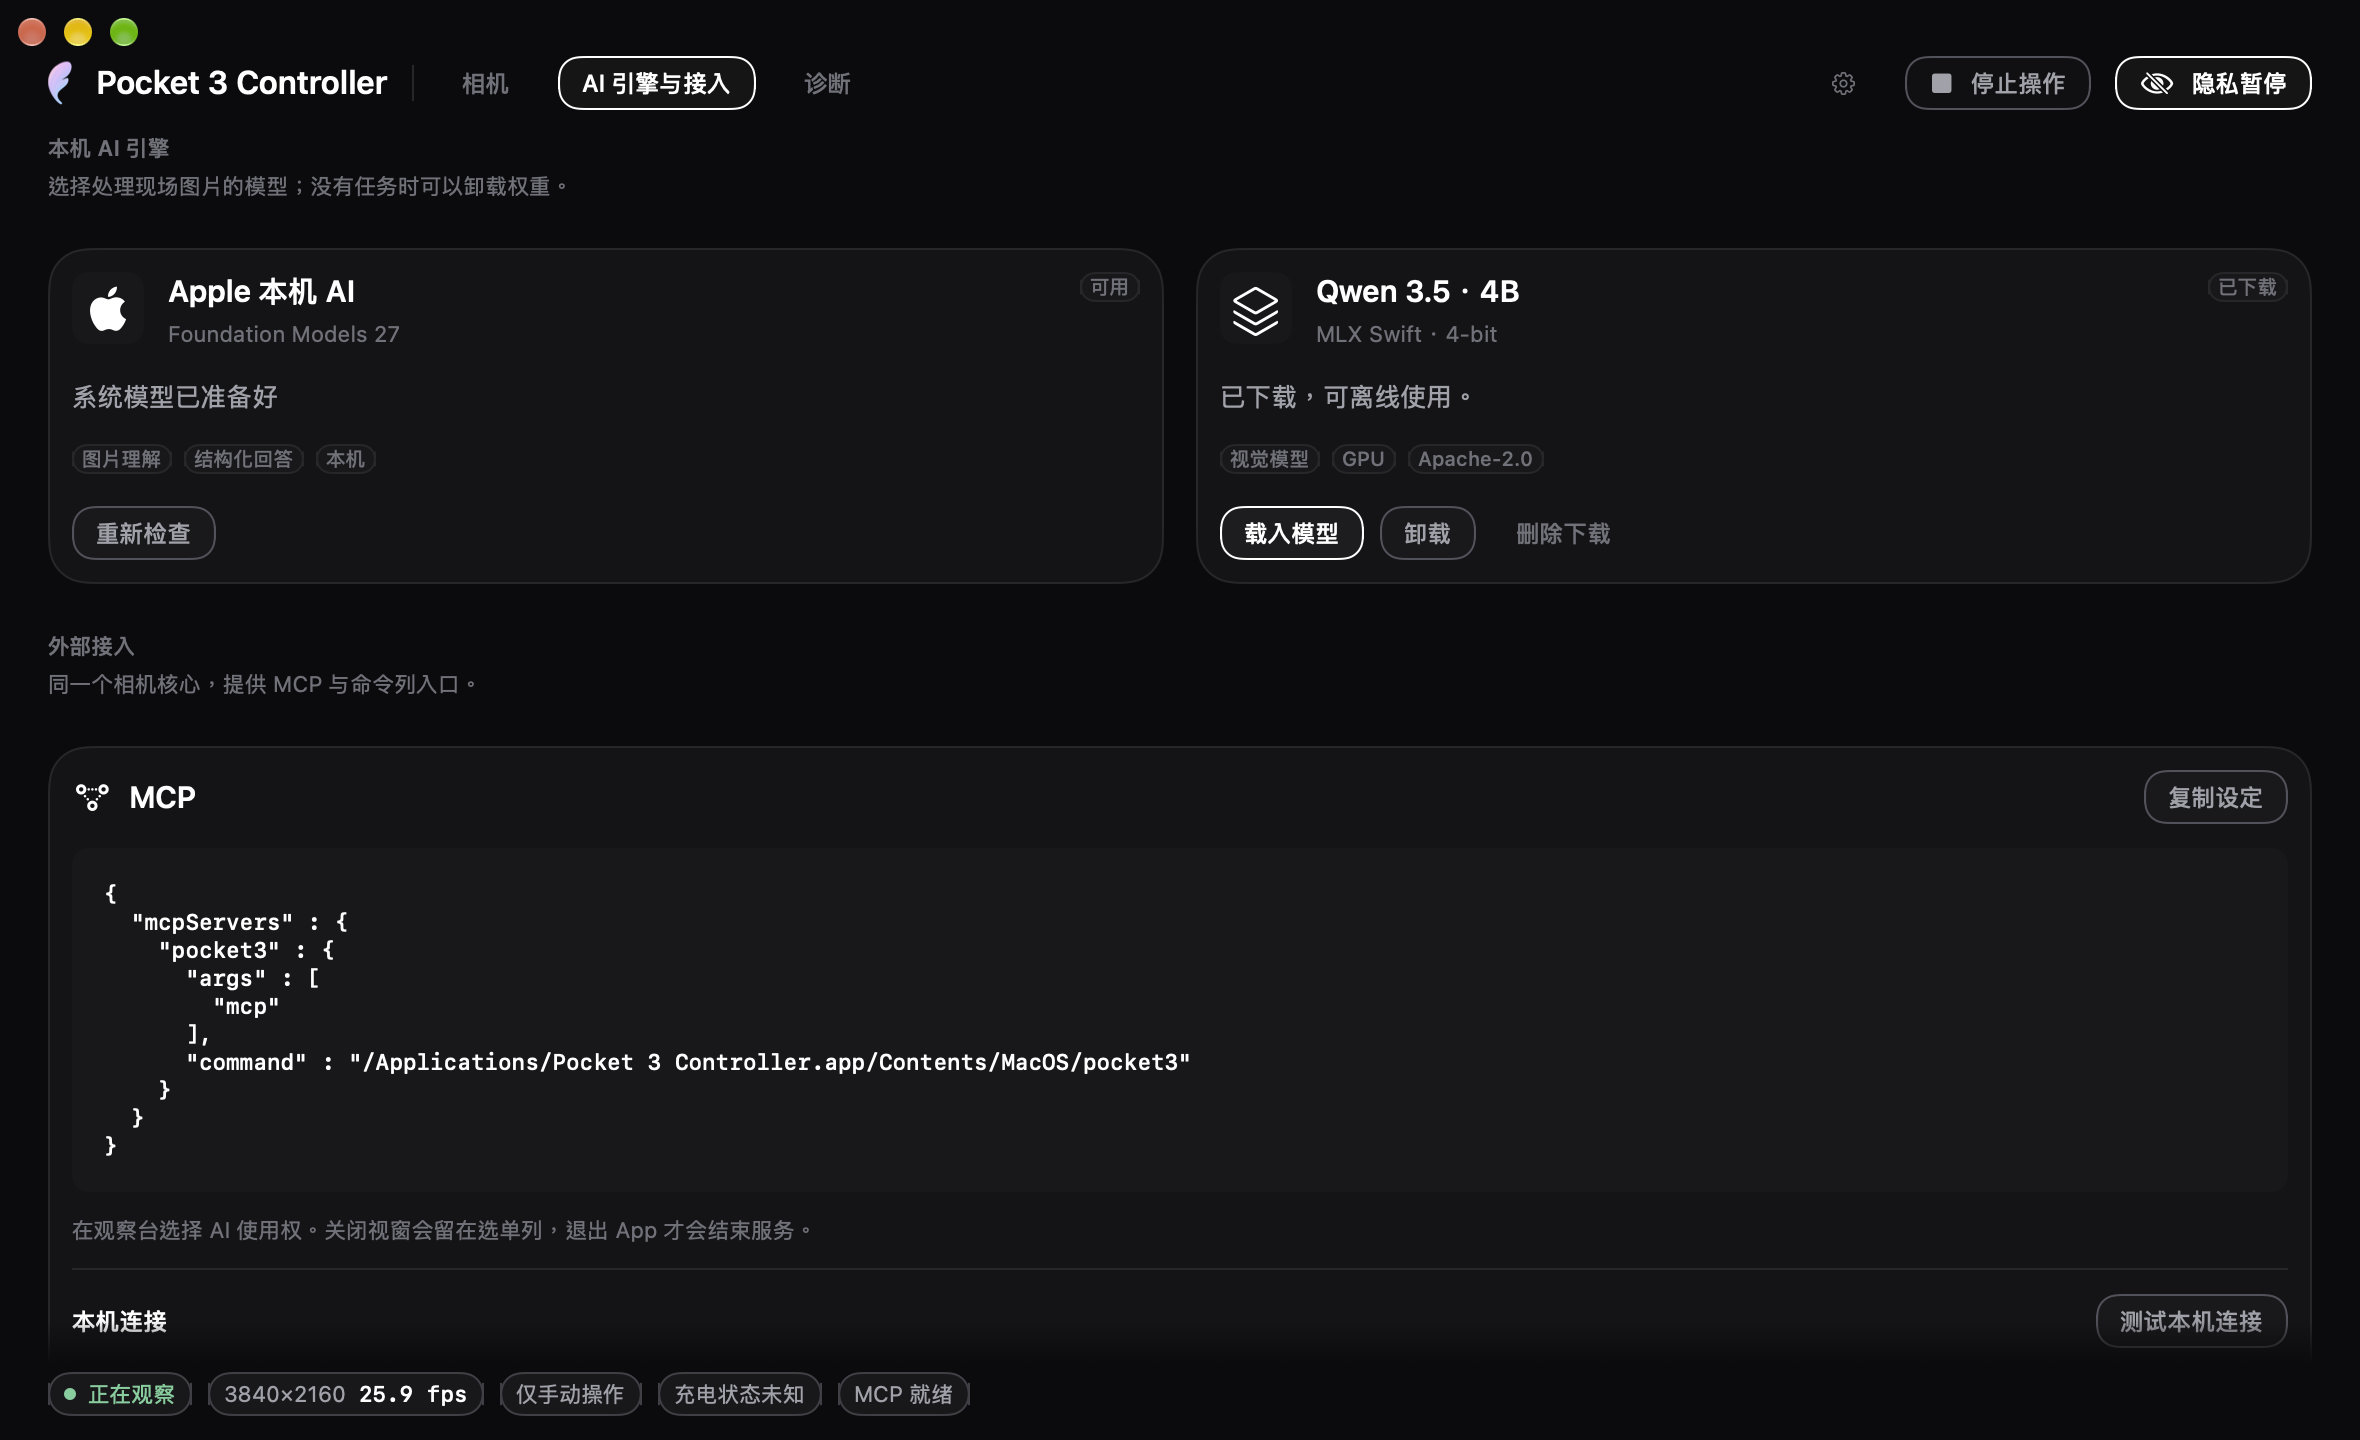
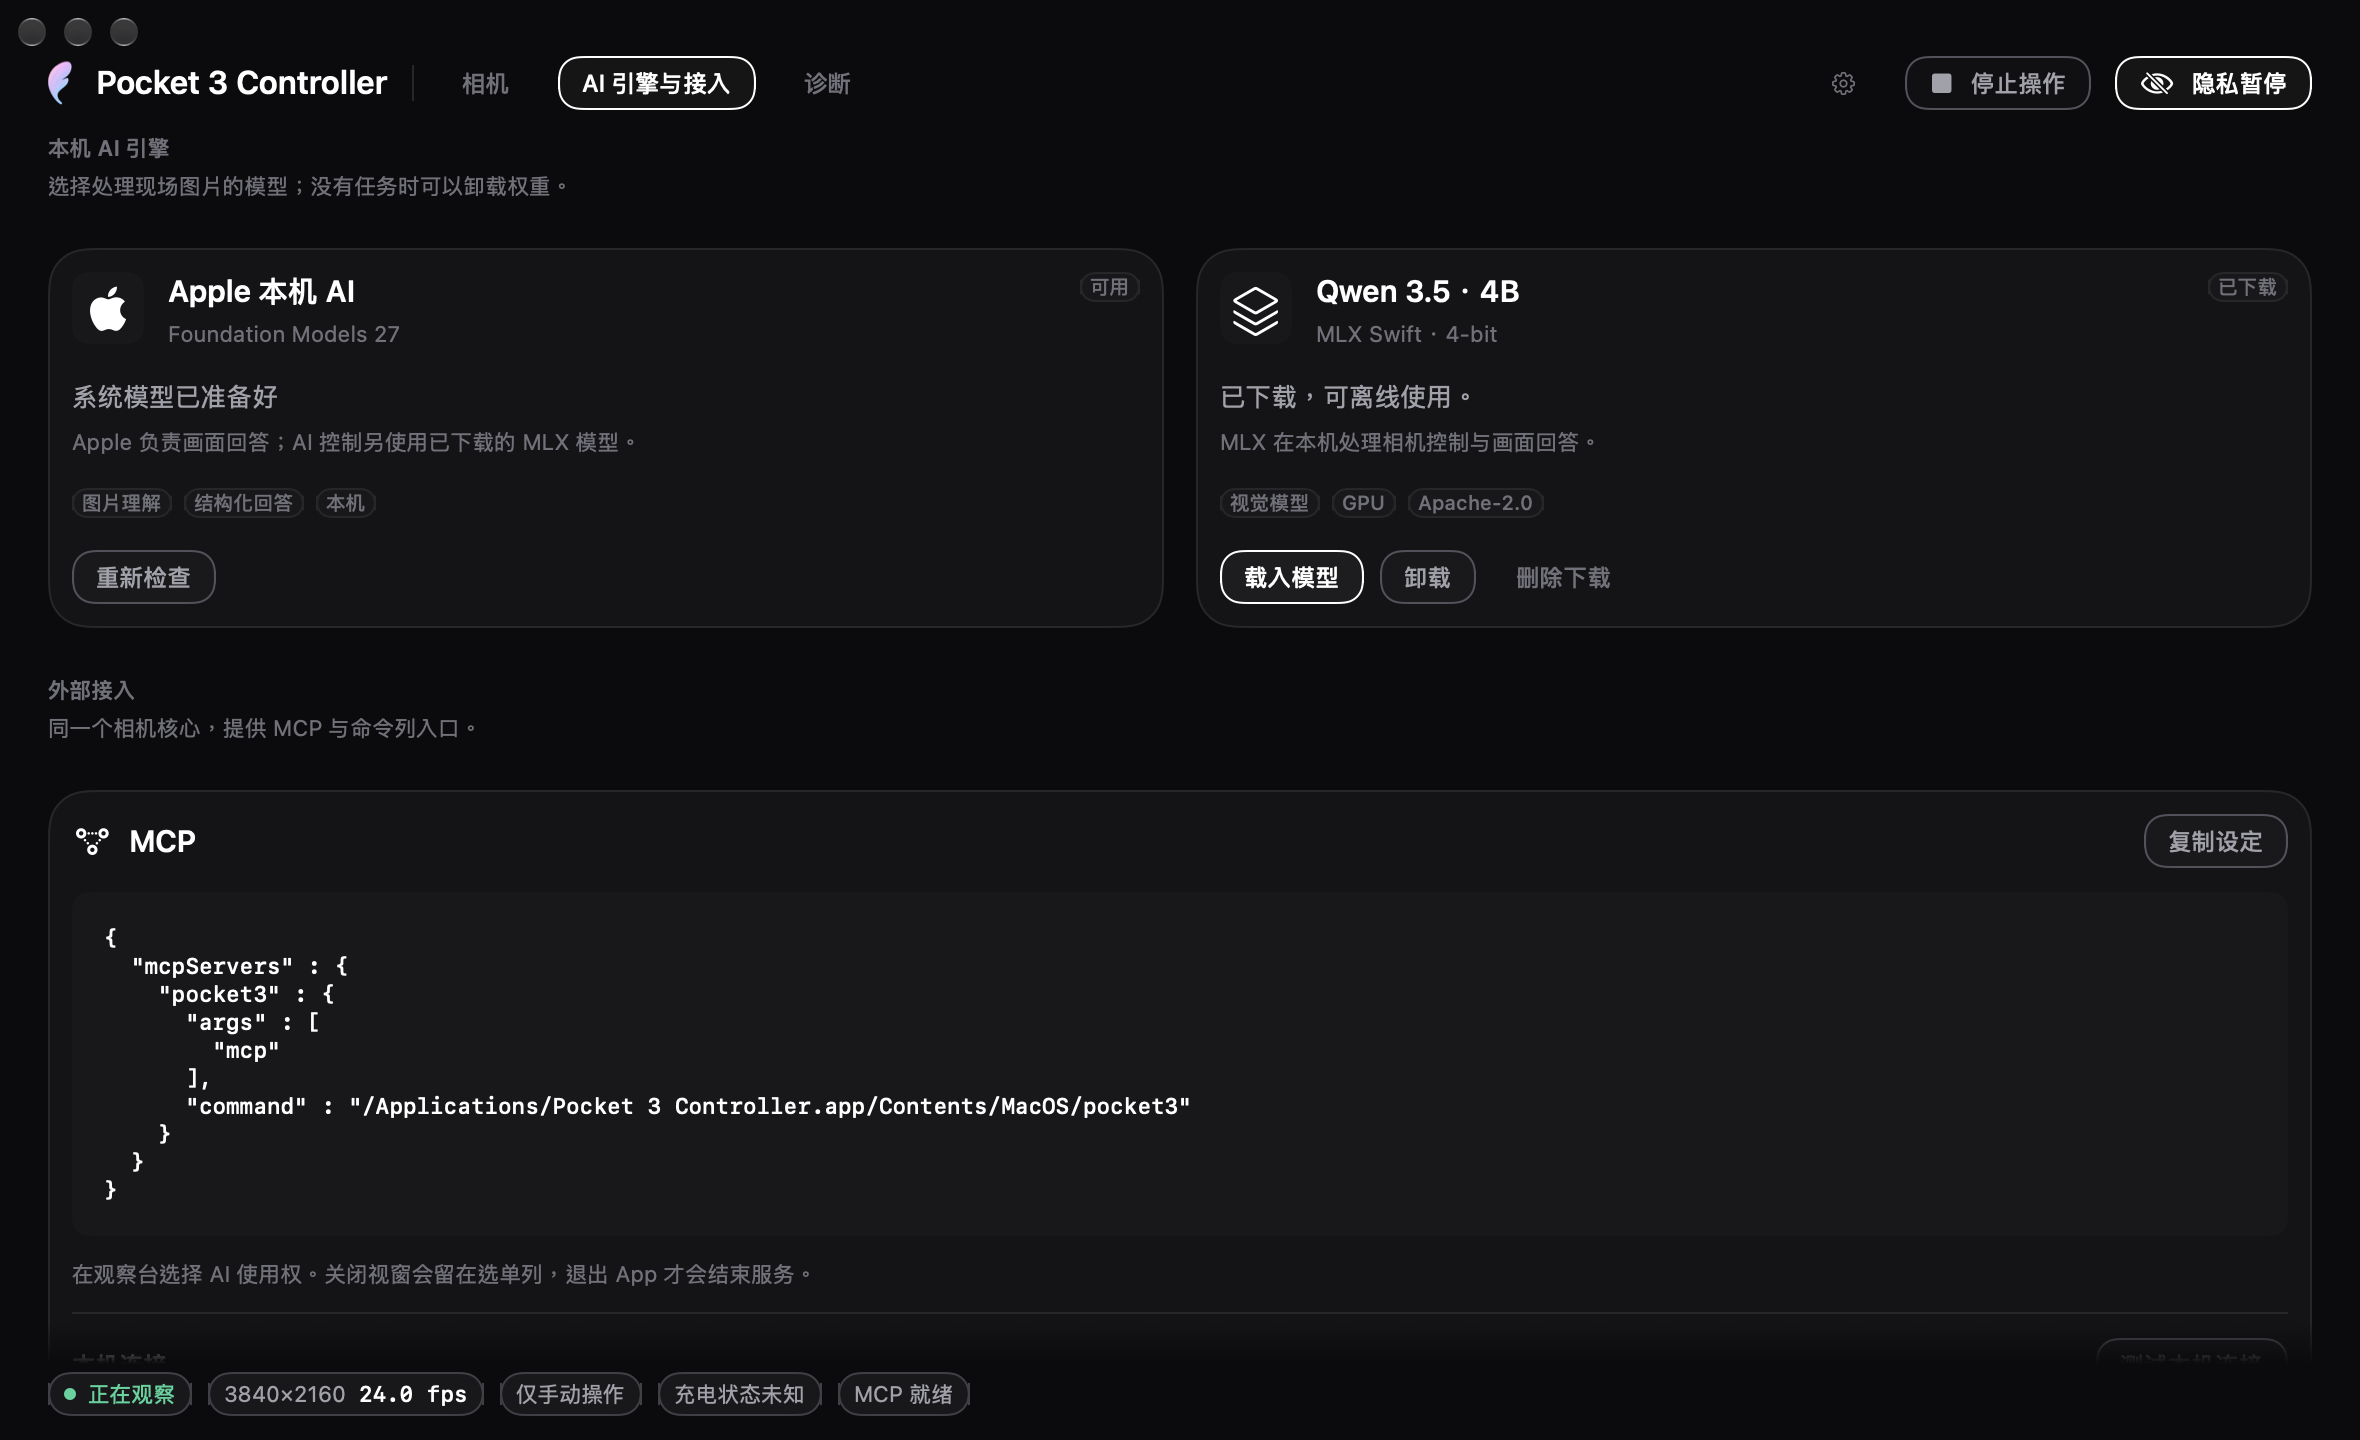
Explain model roles in three languages and refresh privacy-safe UI screenshots

diff --git a/README.md b/README.md
@@ -14,7 +14,7 @@ English · [繁體中文](README.zh-Hant.md) · [简体中文](README.zh-Hans.md
 
 <img src="docs/images/window.png" alt="Pocket 3 Controller: camera workspace, manual controls and local AI, with the sensor preview omitted" width="100%">
 
-*Current development UI · beta 2 build 11 · camera preview omitted. Published downloads are beta 1 build 9.*
+*Current development UI · beta 2 build 16 · camera preview omitted. Published downloads are beta 1 build 9.*
 
 ## Overview
 
@@ -30,7 +30,7 @@ USB control keeps the Mac on its existing network; no camera Wi-Fi join is neede
 | | |
 |---|---|
 | **Published release** | [0.0.1 beta 1 · build 9](https://github.com/YuhuanStudio/Pocket3-Controller/releases/tag/v0.0.1-beta.1) |
-| **Development branch** | `main` is preparing 0.0.1 beta 2 · build 11, with UI alignment fixes under test; it is not the published beta 1 binary |
+| **Development branch** | `main` is preparing 0.0.1 beta 2 · build 17; it is not the published beta 1 binary |
 | **Platform** | macOS 27, Apple Silicon, Pocket 3 in USB Webcam mode |
 | **Interfaces** | Main window, menu bar panel, CLI and MCP over stdio |
 | **Languages** | English, Traditional Chinese and Simplified Chinese |
@@ -108,6 +108,25 @@ questions, OCR and barcode reading. Apple features depend on system-model
 availability; the optional MLX model is downloaded only when requested. Core AI model evaluation has a measured GPU path;
 this project does not claim that every AI workload runs on the Neural Engine.
 
+**Build 16 development branch — model responsibilities.**
+When **Apple** is selected and AI movement or zoom is available, the already-downloaded
+MLX model runs the complete camera tool loop; the app refreshes the final frame,
+and Apple answers from that new image. This is not Apple independently calling
+camera tools. Apple observation-only use does not require MLX; selecting **MLX**
+still lets MLX handle its own camera tools and answer.
+
+The app does not download MLX automatically. If this control workflow needs a
+missing model, the UI explains that requirement; choose the download explicitly,
+or use Apple with observation-only access. Development responses expose
+`metadata.executionRoles`: `controllerEngine=mlx`, `answerEngine=apple`,
+`finalFrameRefresh=app` for the combined route. These roles are separate from
+actual action evidence. A bounded live-camera run passed all 11 checks in 38.039 seconds:
+MLX made four model tool calls, with one raw-200 zoom; the app then obtained a
+frame newer than the final model capture, and Apple answered it. That host refresh
+is not an extra SDK tool call. Raw 100 and manual access were restored afterward.
+This proves that case, not Apple-only camera control, every MCP scenario, or a
+capability of the published beta 1 binary. See the [hardware record](docs/HARDWARE_ACCEPTANCE.md).
+
 AI access starts off. Manual controls take priority over AI; movement and zoom
 require the corresponding access and verification conditions. A model's
 text is not proof that a camera action completed; callers receive tool results
@@ -123,7 +142,7 @@ the window leaves the menu bar service running; quitting ends it.
 </tr>
 </table>
 
-These screenshots show the current beta 2 development interface (build 11), with the sensor preview omitted. They contain no Pocket 3 photographs. Each README uses its own language; the published beta 1 download remains build 9.
+These screenshots show the current beta 2 development interface (build 16), with the sensor preview omitted. They contain no Pocket 3 photographs. Each README uses its own language; the published beta 1 download remains build 9.
 
 ## MCP and CLI
 

diff --git a/docs/guide.md b/docs/guide.md
@@ -4,7 +4,7 @@ English · [繁體中文](zh-Hant/guide.md) · [简体中文](zh-Hans/guide.md)
 
 [Documentation index](README.md) · [Product overview](../README.md)
 
-This guide covers published **0.0.1 beta 1, build 9**; `main` is beta 2 development, build 11, with UI alignment fixes under test.
+This guide covers published **0.0.1 beta 1, build 9**; `main` is beta 2 development, build 17. The build 16 model routing below is a development addition, not a published beta 1 feature.
 A disabled or experimental control is not a promise that its camera function is supported.
 
 ## Install and first launch
@@ -106,6 +106,30 @@ Choose an engine on **AI engines and integration**. Apple Foundation Models need
 the corresponding system model available. MLX Qwen 3.5 is optional: select its
 download action and allow space for roughly 3.1 GB of model files. The download
 requires a network connection; inference uses the locally available model.
+
+### Build 16 development model routing
+
+| Selection and access | Camera tools | Final answer |
+|---|---|---|
+| Apple, observation only | No movement or zoom; MLX is not required | Apple |
+| Apple, eligible AI movement or zoom | Already-downloaded MLX runs the complete tool loop; the app obtains a fresh final frame | Apple answers the new frame |
+| MLX | MLX runs its own permitted tools | MLX |
+
+The combined route does not make Apple the camera tool executor. The app never
+automatically downloads MLX: if the model is missing when control is available,
+the UI explains what is needed. Download it explicitly, or switch to **Observe only**
+to use Apple without MLX. Existing access, capability, cancellation and result
+checks still apply; a controller role does not prove that an action happened.
+
+Development response `metadata.executionRoles` identifies `controllerEngine=mlx`,
+`answerEngine=apple` and `finalFrameRefresh=app` for this route. One live-camera
+run completed in 38.039 seconds with all 11 checks passing. The MLX tool order was
+`capture_frame → camera_zoom_status → camera_set_zoom → capture_frame`, with one
+raw-200 zoom and verified readback. The app refreshed the final frame again before
+Apple answered; this host refresh is not a fifth model or SDK tool call. Raw 100
+and manual access were restored. This validates that bounded case, not every MCP
+workflow or Apple independently controlling the camera. Published beta 1 remains
+build 9; screenshots are versioned separately. See the [hardware record](HARDWARE_ACCEPTANCE.md).
 
 Choose **Observe only** before asking about an image. OCR and barcode tools also
 operate locally. Grant camera control only when that workflow is wanted; code

diff --git a/docs/images/README.md b/docs/images/README.md
@@ -1,6 +1,6 @@
 # Interface screenshots
 
-These nine images show the current beta 2 development interface (build 11).
+These nine images show the current beta 2 development interface (build 16).
 The published beta 1 download is build 9. The gallery is labelled separately
 from release verification and is not evidence that beta 1 contains later fixes.
 
